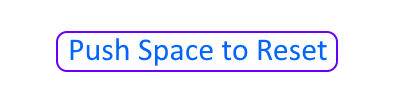
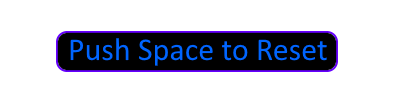
Changed images to better deal with background/foreground contrast and represent coler instead of ID

Changed region(s): [[0.12, 0.3, 0.84, 0.72]]

diff --git a/Tanx/src/Tanx.java b/Tanx/src/Tanx.java
@@ -49,10 +49,10 @@ public class Tanx extends StateBasedGame {
 	public static final String TIMER_GAUGE = "resources/timerGauge.png";
 	public static final String BANG_EXPLOSIONIMG_RSC = "resources/explosion.png";
 	public static final String BANG_EXPLOSIONSND_RSC = "resources/explosion.wav";
-	public static final String PLAYER_WIN_1 = "resources/Player1_win.png";
-  public static final String PLAYER_WIN_2 = "resources/Player2_win.png";
-  public static final String PLAYER_WIN_3 = "resources/Player3_win.png";
-  public static final String PLAYER_WIN_4 = "resources/Player4_win.png";
+	public static final String PLAYER_WIN_BLUE = "resources/blue_win.png";
+  public static final String PLAYER_WIN_RED = "resources/red_win.png";
+  public static final String PLAYER_WIN_YELLOW = "resources/yellow_win.png";
+  public static final String PLAYER_WIN_GREEN = "resources/green_win.png";
   public static final String NO_WINNER_MSG = "resources/no_winner.png";
   public static final String RESET_MSG = "resources/pushSpaceResetMsg.png";
   public static final String TERRAIN_IMG = "resources/dirtTile.png";
@@ -108,10 +108,10 @@ public class Tanx extends StateBasedGame {
 		ResourceManager.loadImage(HEALTH_BAR);
 		ResourceManager.loadImage(FOCUS_ARROW);
 		ResourceManager.loadImage(TIMER_GAUGE);
-		ResourceManager.loadImage(PLAYER_WIN_1);
-    ResourceManager.loadImage(PLAYER_WIN_2);
-    ResourceManager.loadImage(PLAYER_WIN_3);
-    ResourceManager.loadImage(PLAYER_WIN_4);
+		ResourceManager.loadImage(PLAYER_WIN_BLUE);
+    ResourceManager.loadImage(PLAYER_WIN_GREEN);
+    ResourceManager.loadImage(PLAYER_WIN_RED);
+    ResourceManager.loadImage(PLAYER_WIN_YELLOW);
     ResourceManager.loadImage(NO_WINNER_MSG);
     ResourceManager.loadImage(RESET_MSG);
     ResourceManager.loadImage(TERRAIN_IMG);

diff --git a/Tanx/src/PlayingState.java b/Tanx/src/PlayingState.java
@@ -172,16 +172,16 @@ public class PlayingState extends BasicGameState {
     int winningPlayer = getWinningPlayer();
     switch(winningPlayer) {
       case 1:
-        playerWinImg = ResourceManager.getImage(Tanx.PLAYER_WIN_1);
+        playerWinImg = ResourceManager.getImage(Tanx.PLAYER_WIN_BLUE);
         break;
       case 2:
-        playerWinImg = ResourceManager.getImage(Tanx.PLAYER_WIN_2);
+        playerWinImg = ResourceManager.getImage(Tanx.PLAYER_WIN_RED);
         break;
       case 3:
-        playerWinImg = ResourceManager.getImage(Tanx.PLAYER_WIN_3);
+        playerWinImg = ResourceManager.getImage(Tanx.PLAYER_WIN_GREEN);
         break;
       case 4:
-        playerWinImg = ResourceManager.getImage(Tanx.PLAYER_WIN_4);
+        playerWinImg = ResourceManager.getImage(Tanx.PLAYER_WIN_YELLOW);
         break;
       default:
         playerWinImg = ResourceManager.getImage(Tanx.NO_WINNER_MSG);

diff --git a/Tanx/src/Player.java b/Tanx/src/Player.java
@@ -186,6 +186,8 @@ public class Player {
 
   public float getChargedPower() { return chargedPower; }
 
+  public Color getPlayerColor() { return playerColor; }
+
   //cheats
   public void giveAllWeapons() {
     giveAmmo(Cannon.BASE_CANNON, Ammo.INF_AMMO);
@@ -206,4 +208,5 @@ public class Player {
   public boolean isInfHealth() {
     return getTank().isInfHealth();
   }
+
 }
